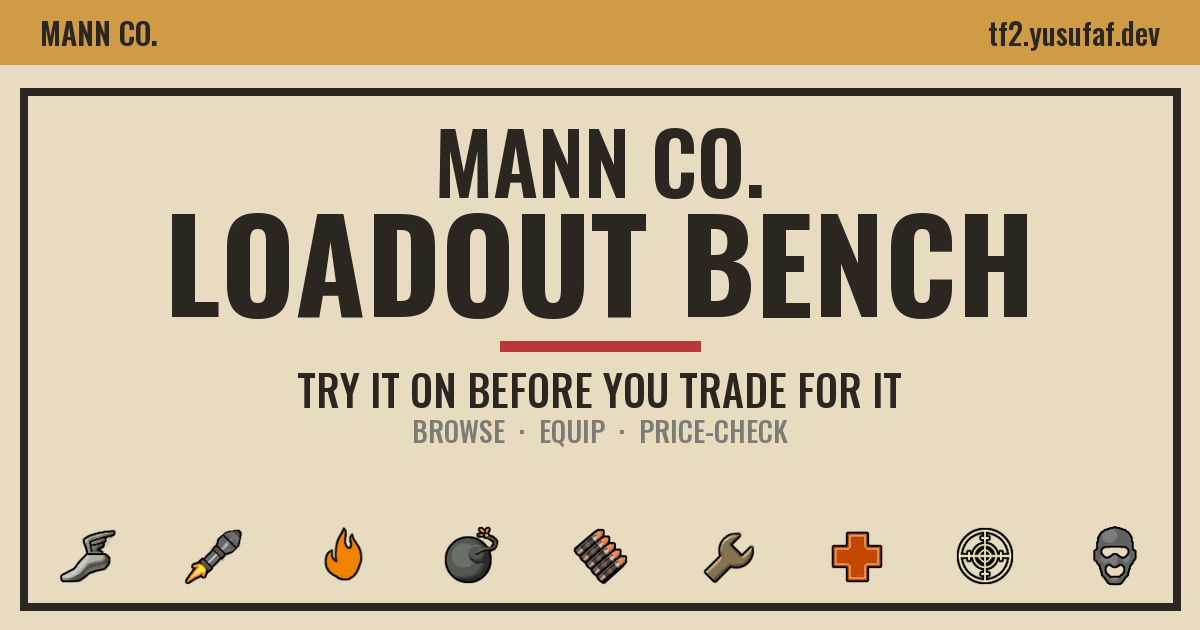
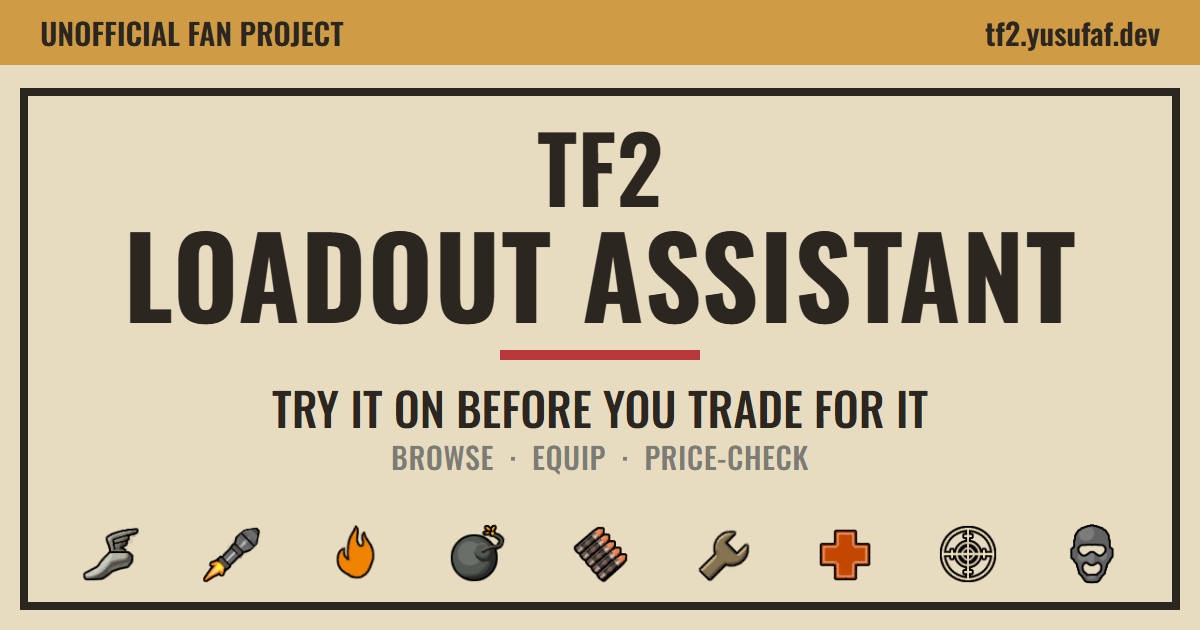
feat: rename to TF2 Loadout Assistant, MIT license, sitemap, fly.dev redirect (#69)
* chore: add MIT license

* feat(web): rename the product to TF2 Loadout Assistant

"Mann Co. Loadout Bench" borrowed Valve's in-game company name and read as an official product. The og:image card is re-rendered with the new name; Mann Co. stays as in-game flavour in DESIGN.md's identity and copy voice.

* feat(seo): add sitemap.xml and reference it from robots.txt

* feat(api): redirect tf2-loadout-af.fly.dev to tf2.yusufaf.dev

The Fly hostname served a full duplicate of the site. Only an exact Host match is redirected, and /healthz never is, so Fly health checks and internal traffic are unaffected.

* docs(readme): lead with the live link and a screenshot

* fix(api): harden the Fly hostname redirect

- 308 instead of 301 for non-GET/HEAD so POST bodies and methods survive
- percent-encode raw path/query bytes exactly once, and skip RedirectResponse's
  second quote()
- exempt /healthz/ as well as /healthz
- take the target origin from PUBLIC_BASE_URL; no redirect when it's unset or
  is itself a redirected host

diff --git a/frontend/index.html b/frontend/index.html
@@ -9,23 +9,23 @@
     />
     <meta name="theme-color" content="#e8dcc0" />
     <link rel="canonical" href="https://tf2.yusufaf.dev/" />
-    <meta property="og:title" content="Mann Co. Loadout Bench" />
+    <meta property="og:title" content="TF2 Loadout Assistant" />
     <meta
       property="og:description"
       content="Try it on before you trade for it — browse, equip, and price-check TF2 cosmetic loadouts."
     />
     <meta property="og:type" content="website" />
     <meta property="og:url" content="https://tf2.yusufaf.dev/" />
-    <meta property="og:site_name" content="Mann Co. Loadout Bench" />
+    <meta property="og:site_name" content="TF2 Loadout Assistant" />
     <meta property="og:image" content="https://tf2.yusufaf.dev/og-image.png" />
     <meta property="og:image:width" content="1200" />
     <meta property="og:image:height" content="630" />
     <meta
       property="og:image:alt"
-      content="Mann Co. Loadout Bench — try it on before you trade for it."
+      content="TF2 Loadout Assistant — try it on before you trade for it."
     />
     <meta name="twitter:card" content="summary_large_image" />
-    <meta name="twitter:title" content="Mann Co. Loadout Bench" />
+    <meta name="twitter:title" content="TF2 Loadout Assistant" />
     <meta
       name="twitter:description"
       content="Try it on before you trade for it — browse, equip, and price-check TF2 cosmetic loadouts."
@@ -33,7 +33,7 @@
     <meta name="twitter:image" content="https://tf2.yusufaf.dev/og-image.png" />
     <meta
       name="twitter:image:alt"
-      content="Mann Co. Loadout Bench — try it on before you trade for it."
+      content="TF2 Loadout Assistant — try it on before you trade for it."
     />
     <link rel="icon" type="image/png" sizes="32x32" href="/favicon-32x32.png" />
     <link rel="icon" type="image/png" sizes="16x16" href="/favicon-16x16.png" />
@@ -48,7 +48,7 @@
       href="https://fonts.googleapis.com/css2?family=Oswald:wght@500;600;700&family=Inter:wght@400;500;600&display=swap"
       rel="stylesheet"
     />
-    <title>Mann Co. Loadout Bench</title>
+    <title>TF2 Loadout Assistant</title>
   </head>
   <body>
     <div id="root"></div>
@@ -65,7 +65,7 @@
         "
       >
         <h1 style="font-family: Oswald, sans-serif; letter-spacing: 0.02em">
-          Mann Co. Loadout Bench
+          TF2 Loadout Assistant
         </h1>
         <p>
           Browse TF2 cosmetics by class, try on a loadout, catch equip conflicts,

diff --git a/frontend/src/App.tsx b/frontend/src/App.tsx
@@ -258,7 +258,7 @@ export default function App() {
     <div className="app">
       <header className="masthead">
         <h1>
-          Mann Co. <span className="co">Loadout</span> Bench
+          TF2 <span className="co">Loadout</span> Assistant
         </h1>
         <div className="masthead-side">
           <span className="tagline">Try it on before you trade for it</span>

diff --git a/frontend/src/index.css b/frontend/src/index.css
@@ -1,4 +1,4 @@
-/* Mann Co. Loadout Bench — TF2 propaganda/industrial identity. See DESIGN.md. */
+/* TF2 Loadout Assistant — Mann Co. propaganda/industrial identity. See DESIGN.md. */
 :root {
   --paper: #e8dcc0;
   --paper-dark: #d6c4a0;

diff --git a/tests/test_api.py b/tests/test_api.py
@@ -4,6 +4,7 @@ The app is built from a catalog + pricing service so tests can inject small fixt
 Cosmetic responses join in the price when one exists.
 """
 
+import asyncio
 import json
 
 from fastapi.testclient import TestClient
@@ -19,12 +20,13 @@ from tf2_loadout.models import Cosmetic, Price
 from tf2_loadout.catalog import CatalogService
 from tf2_loadout.lore import ItemLore, LoreService
 from tf2_loadout.pricing import PricingService
-from tf2_loadout.api import create_app
+from tf2_loadout.api import CanonicalHostRedirect, create_app
 from tf2_loadout.config import PROVIDERS
 
 # What the browser sends with every chat turn. The value is never checked here --
 # the stub factory below ignores it -- but its absence must be a 401.
 LLM_HEADERS = {"X-LLM-Provider": "anthropic", "X-LLM-API-Key": "sk-test"}
+PUBLIC_BASE_URL = "https://tf2.yusufaf.dev"
 
 
 def _service(model: Model, deps: LoadoutDeps) -> LoadoutAgentService:
@@ -43,7 +45,7 @@ class _StubWiki:
         }
 
 
-def _client() -> TestClient:
+def _client(public_base_url: str | None = None) -> TestClient:
     catalog = CatalogService(
         [
             Cosmetic(1, "Spy Fedora", frozenset({"hat"}), ("Spy",), "misc", "img1"),
@@ -53,7 +55,7 @@ def _client() -> TestClient:
     )
     pricing = PricingService({1: Price("metal", 5.0, 6.0)})
     lore = LoreService(_StubWiki())
-    return TestClient(create_app(catalog, pricing, lore))
+    return TestClient(create_app(catalog, pricing, lore, public_base_url=public_base_url))
 
 
 def test_healthz_reports_counts():
@@ -432,3 +434,90 @@ def test_chat_providers_lists_the_allowlist_even_without_a_service():
         providers = r.json()["providers"]
         assert [p["id"] for p in providers] == [spec.id for spec in PROVIDERS]
         assert all(p["label"] and p["model"] for p in providers)
+
+
+def _fly_client(base_url: str = "https://tf2-loadout-af.fly.dev") -> TestClient:
+    return TestClient(_client(public_base_url=PUBLIC_BASE_URL).app, base_url=base_url)
+
+
+def test_fly_hostname_redirects_to_the_custom_domain_keeping_path_and_query():
+    client = _fly_client()
+    r = client.get("/cosmetics?used_by=Spy&q=fedora", follow_redirects=False)
+    assert r.status_code == 301
+    assert r.headers["location"] == "https://tf2.yusufaf.dev/cosmetics?used_by=Spy&q=fedora"
+    r = client.get("/lore/a%3Fb", follow_redirects=False)
+    assert r.headers["location"] == "https://tf2.yusufaf.dev/lore/a%3Fb"
+    assert client.head("/", follow_redirects=False).status_code == 301
+
+
+def test_fly_hostname_redirects_non_get_with_308_so_method_and_body_survive():
+    r = _fly_client().post(
+        "/chat?source=share", json={"messages": []}, follow_redirects=False
+    )
+    assert r.status_code == 308
+    assert r.headers["location"] == "https://tf2.yusufaf.dev/chat?source=share"
+
+
+def test_fly_hostname_redirect_percent_encodes_raw_bytes_exactly_once():
+    # httpx escapes non-ASCII before sending, so hand the middleware the raw bytes a
+    # lenient server could pass through.
+    sent = []
+
+    async def send(message):
+        sent.append(message)
+
+    async def unreachable(scope, receive, send):
+        raise AssertionError("a redirected request reached the app")
+
+    scope = {
+        "type": "http",
+        "method": "GET",
+        "path": "/lore/Über?",
+        "raw_path": "/lore/Über%3F".encode(),
+        "query_string": "q=ä&r=%20".encode(),
+        "headers": [(b"host", b"tf2-loadout-af.fly.dev")],
+    }
+    asyncio.run(CanonicalHostRedirect(unreachable, PUBLIC_BASE_URL)(scope, None, send))
+    assert sent[0]["status"] == 301
+    assert dict(sent[0]["headers"])[b"location"] == (
+        b"https://tf2.yusufaf.dev/lore/%C3%9Cber%3F?q=%C3%A4&r=%20"
+    )
+
+
+def test_fly_hostname_match_ignores_case_and_port():
+    r = _fly_client("http://testserver").get(
+        "/", headers={"host": "TF2-Loadout-AF.fly.dev:443"}, follow_redirects=False
+    )
+    assert r.status_code == 301
+    assert r.headers["location"] == "https://tf2.yusufaf.dev/"
+
+
+def test_canonical_and_internal_hosts_are_not_redirected():
+    client = _fly_client("http://testserver")
+    # Fly's health checker addresses the machine by its private IP, not a public name.
+    for host in ("tf2.yusufaf.dev", "172.19.0.2:8000", "tf2-loadout-af.internal"):
+        r = client.get("/healthz", headers={"host": host}, follow_redirects=False)
+        assert r.status_code == 200, host
+        r = client.get("/cosmetics", headers={"host": host}, follow_redirects=False)
+        assert r.status_code == 200, host
+
+
+def test_healthz_is_never_redirected():
+    client = _fly_client()
+    r = client.get("/healthz", follow_redirects=False)
+    assert r.status_code == 200
+    assert r.json()["status"] == "ok"
+    # The app's own answer to /healthz/ depends on whether frontend/dist is mounted (a
+    # 404, or the router's same-host slash redirect); either way it stays on this host.
+    r = client.get("/healthz/", follow_redirects=False)
+    assert not r.headers.get("location", "").startswith(PUBLIC_BASE_URL)
+
+
+def test_no_redirect_without_a_distinct_public_base_url():
+    # Unset (local dev, tests) or pointing at the Fly hostname itself, which would loop.
+    for public_base_url in (None, "https://tf2-loadout-af.fly.dev"):
+        client = TestClient(
+            _client(public_base_url=public_base_url).app,
+            base_url="https://tf2-loadout-af.fly.dev",
+        )
+        assert client.get("/cosmetics", follow_redirects=False).status_code == 200

diff --git a/src/tf2_loadout/api.py b/src/tf2_loadout/api.py
@@ -9,6 +9,7 @@ from __future__ import annotations
 import json
 import secrets
 from pathlib import Path
+from urllib.parse import quote_from_bytes, urlsplit
 
 from fastapi import FastAPI, HTTPException, Request
 from fastapi.middleware.cors import CORSMiddleware
@@ -18,7 +19,9 @@ from pydantic import BaseModel, Field, ValidationError
 from pydantic_ai.exceptions import ModelHTTPError, UsageLimitExceeded
 from pydantic_ai.messages import ModelMessagesTypeAdapter
 from pydantic_core import to_jsonable_python
+from starlette.datastructures import Headers
 from starlette.middleware.sessions import SessionMiddleware
+from starlette.types import ASGIApp, Receive, Scope, Send
 
 from tf2_loadout.agent import (
     REJECTED_KEY,
@@ -53,6 +56,51 @@ FRONTEND_DIST = Path(__file__).resolve().parents[2] / "frontend" / "dist"
 # back), and the session cookie is signed but not encrypted.
 LLM_PROVIDER_HEADER = "X-LLM-Provider"
 LLM_KEY_HEADER = "X-LLM-API-Key"
+
+# The Fly app's own hostname serves the same site as the custom domain; sending it to
+# PUBLIC_BASE_URL keeps search engines and shared links on one origin.
+REDIRECTED_HOSTS = frozenset({"tf2-loadout-af.fly.dev"})
+HEALTHZ_PATHS = frozenset({"/healthz", "/healthz/"})
+
+# RFC 3986 pchar beyond the unreserved set (which quote never escapes), plus "%" so an
+# escape the client already sent passes through instead of being encoded twice.
+_PATH_SAFE = "/%:@!$&'()*+,;="
+_QUERY_SAFE = _PATH_SAFE + "?"
+
+
+class CanonicalHostRedirect:
+    """Redirect a request for a REDIRECTED_HOSTS name to the same path and query on
+    ``canonical_origin``.
+
+    301 for GET/HEAD; 308 for everything else, since clients may turn a 301'd POST
+    into a body-less GET. Only an exact Host match redirects, so Fly's health checks
+    and internal traffic (addressed by the machine's private IP or a .internal name)
+    pass straight through. /healthz is exempt even on a matching host, in case a check
+    is ever configured with the public name. Plain ASGI rather than
+    ``@app.middleware("http")`` so the /chat/stream SSE body isn't routed through
+    BaseHTTPMiddleware.
+    """
+
+    def __init__(self, app: ASGIApp, canonical_origin: str) -> None:
+        self.app = app
+        self.canonical_origin = canonical_origin
+
+    async def __call__(self, scope: Scope, receive: Receive, send: Send) -> None:
+        if scope["type"] == "http" and scope["path"] not in HEALTHZ_PATHS:
+            host = Headers(scope=scope).get("host", "").split(":")[0].lower()
+            if host in REDIRECTED_HOSTS:
+                # raw_path, not path: the decoded form would turn an escaped %3F
+                # back into a query separator.
+                raw_path = scope.get("raw_path") or scope["path"].encode()
+                path = quote_from_bytes(raw_path, _PATH_SAFE)
+                query = quote_from_bytes(scope["query_string"], _QUERY_SAFE)
+                url = self.canonical_origin + path + (f"?{query}" if query else "")
+                status = 301 if scope["method"] in ("GET", "HEAD") else 308
+                # Not RedirectResponse: it would quote() the already-quoted URL again.
+                response = Response(status_code=status, headers={"location": url})
+                await response(scope, receive, send)
+                return
+        await self.app(scope, receive, send)
 
 
 class PriceOut(BaseModel):
@@ -145,6 +193,7 @@ def create_app(
     https_only: bool = True,
     inventory: InventoryService | None = None,
     loadouts: LoadoutStore | None = None,
+    public_base_url: str | None = None,
 ) -> FastAPI:
     app = FastAPI(title="TF2 Loadout Assistant")
     app.add_middleware(
@@ -163,6 +212,14 @@ def create_app(
             same_site="lax",
             https_only=https_only,
             max_age=30 * 24 * 3600,
+        )
+    # Added last so it's outermost: a redirect never touches the session. Skipped when
+    # PUBLIC_BASE_URL is itself a redirected host, which would redirect to itself.
+    canonical = urlsplit(public_base_url) if public_base_url else None
+    if canonical and canonical.hostname and canonical.hostname not in REDIRECTED_HOSTS:
+        app.add_middleware(
+            CanonicalHostRedirect,
+            canonical_origin=f"{canonical.scheme}://{canonical.netloc}",
         )
 
     def to_out(cosmetic: Cosmetic) -> CosmeticOut:
@@ -588,6 +645,7 @@ def main() -> None:
         ),
         inventory=inventory,
         loadouts=loadouts,
+        public_base_url=auth_settings.public_base_url,
     )
     # 0.0.0.0, not 127.0.0.1: inside a container, Fly's proxy connects from
     # outside the container's network namespace and can't reach a loopback bind.

diff --git a/CLAUDE.md b/CLAUDE.md
@@ -55,7 +55,7 @@ cd frontend && pnpm install && pnpm dev   # http://localhost:5173
 
 **Session state is a signed cookie, not server storage.** `SessionMiddleware` (Starlette + `itsdangerous`) holds `steam_id`/`persona`/`avatar` plus a one-shot CSRF `state` for the OpenID round trip. `SameSite=Lax` is required, not a hardening nice-to-have — the return from Steam is a top-level cross-site GET, and `Strict` would drop the cookie carrying the CSRF state before the handler ever sees it. Rotating `SESSION_SECRET` signs everyone out; that's expected.
 
-**Realm and return_to are built from config, never from the request.** `uvicorn.run` in `main()` passes `proxy_headers=True, forwarded_allow_ips="*"` because Fly terminates TLS in front of the app; without trusting those headers, `request.url` reports plain `http://` even in production, and Steam would reject a realm that doesn't match what it saw. `PUBLIC_BASE_URL` is the single source of truth for both.
+**Realm and return_to are built from config, never from the request.** `uvicorn.run` in `main()` passes `proxy_headers=True, forwarded_allow_ips="*"` because Fly terminates TLS in front of the app; without trusting those headers, `request.url` reports plain `http://` even in production, and Steam would reject a realm that doesn't match what it saw. `PUBLIC_BASE_URL` is the single source of truth for both, and for the origin `CanonicalHostRedirect` sends the bare Fly hostname to.
 
 **Dev is made same-origin with prod, not CORS-permissive.** `SameSite=Lax` blocks the session cookie on a cross-site XHR, and `allow_credentials=True` on CORS does not fix that. Instead `vite.config.ts` proxies the API prefixes to `:8000` and `api.ts`'s `BASE` defaults to `""`, so dev looks like prod (frontend and API on one origin) rather than prod being made to look like dev.
 

diff --git a/DESIGN.md b/DESIGN.md
@@ -1,5 +1,5 @@
 ---
-name: Mann Co. Loadout Bench
+name: TF2 Loadout Assistant
 identity: Mann Co. propaganda poster crossed with the in-game backpack UI
 tokens:
   colors:
@@ -56,7 +56,7 @@ tokens:
 
 ## Identity
 
-The Mann Co. Loadout Bench is a propaganda poster you can click on — warm paper stock, heavy ink outlines, hard offset "sticker" shadows, uppercase condensed display type, a rubber-stamp warning for conflicts. It is square by default: nothing here has soft rounded corners, soft blurred shadows, or floats and fades. If a new element looks like a modern SaaS card, it's wrong for this app.
+TF2 Loadout Assistant is a Mann Co. propaganda poster you can click on — warm paper stock, heavy ink outlines, hard offset "sticker" shadows, uppercase condensed display type, a rubber-stamp warning for conflicts. It is square by default: nothing here has soft rounded corners, soft blurred shadows, or floats and fades. If a new element looks like a modern SaaS card, it's wrong for this app.
 
 ## Color roles
 
@@ -182,5 +182,6 @@ In-universe Mann Co. register in labels and status copy: "Try it on before you t
 - No visual regression test — the frontend test suite (`pnpm test`) covers only pure logic modules (`filters.ts`, `conflicts.ts`); there is no DOM environment. Visual changes must be checked with real screenshots.
 - Item-quality colors are reserved but not wired to any data.
 - Social preview baseline is done (static `og:image` card, manifest, favicon
-  PNG/ICO, `robots.txt` — see `frontend/index.html`), but per-route share cards
-  and the sitemap are still open (tracked separately).
+  PNG/ICO, `robots.txt`, a one-URL `sitemap.xml` — see `frontend/index.html`), but
+  per-route share cards and a catalog-driven sitemap are still open (tracked
+  separately).

diff --git a/README.md b/README.md
@@ -1,5 +1,12 @@
 # TF2 Loadout Assistant
 
+Try on Team Fortress 2 cosmetics before you trade for them: see what clashes and what the
+whole loadout costs.
+
+**Try it: https://tf2.yusufaf.dev**
+
+![A Spy loadout on the bench: five cosmetics in the tray, an INCOMPATIBLE stamp on the two hats, and the estimated value of the whole loadout](docs/screenshot.png)
+
 A bench for Team Fortress 2 cosmetic loadouts: browse a class's cosmetics, try them on,
 and get equip-conflict detection and live pricing. An optional LLM advisor suggests
 loadouts from a described style ("look like a cop").
@@ -67,6 +74,8 @@ pins `ALLOW_MODEL_REQUESTS` to `False`, so no test can reach a provider by accid
 
 ## Credits & licensing
 
+- **Code** is MIT licensed (see [`LICENSE`](./LICENSE)). That covers the code only; the
+  assets below keep their own terms.
 - **Class icons** (`frontend/public/classes/`) are from the
   [Official TF2 Wiki](https://wiki.teamfortress.com/), licensed
   [CC BY-NC-SA 3.0](https://creativecommons.org/licenses/by-nc-sa/3.0/). Note the
